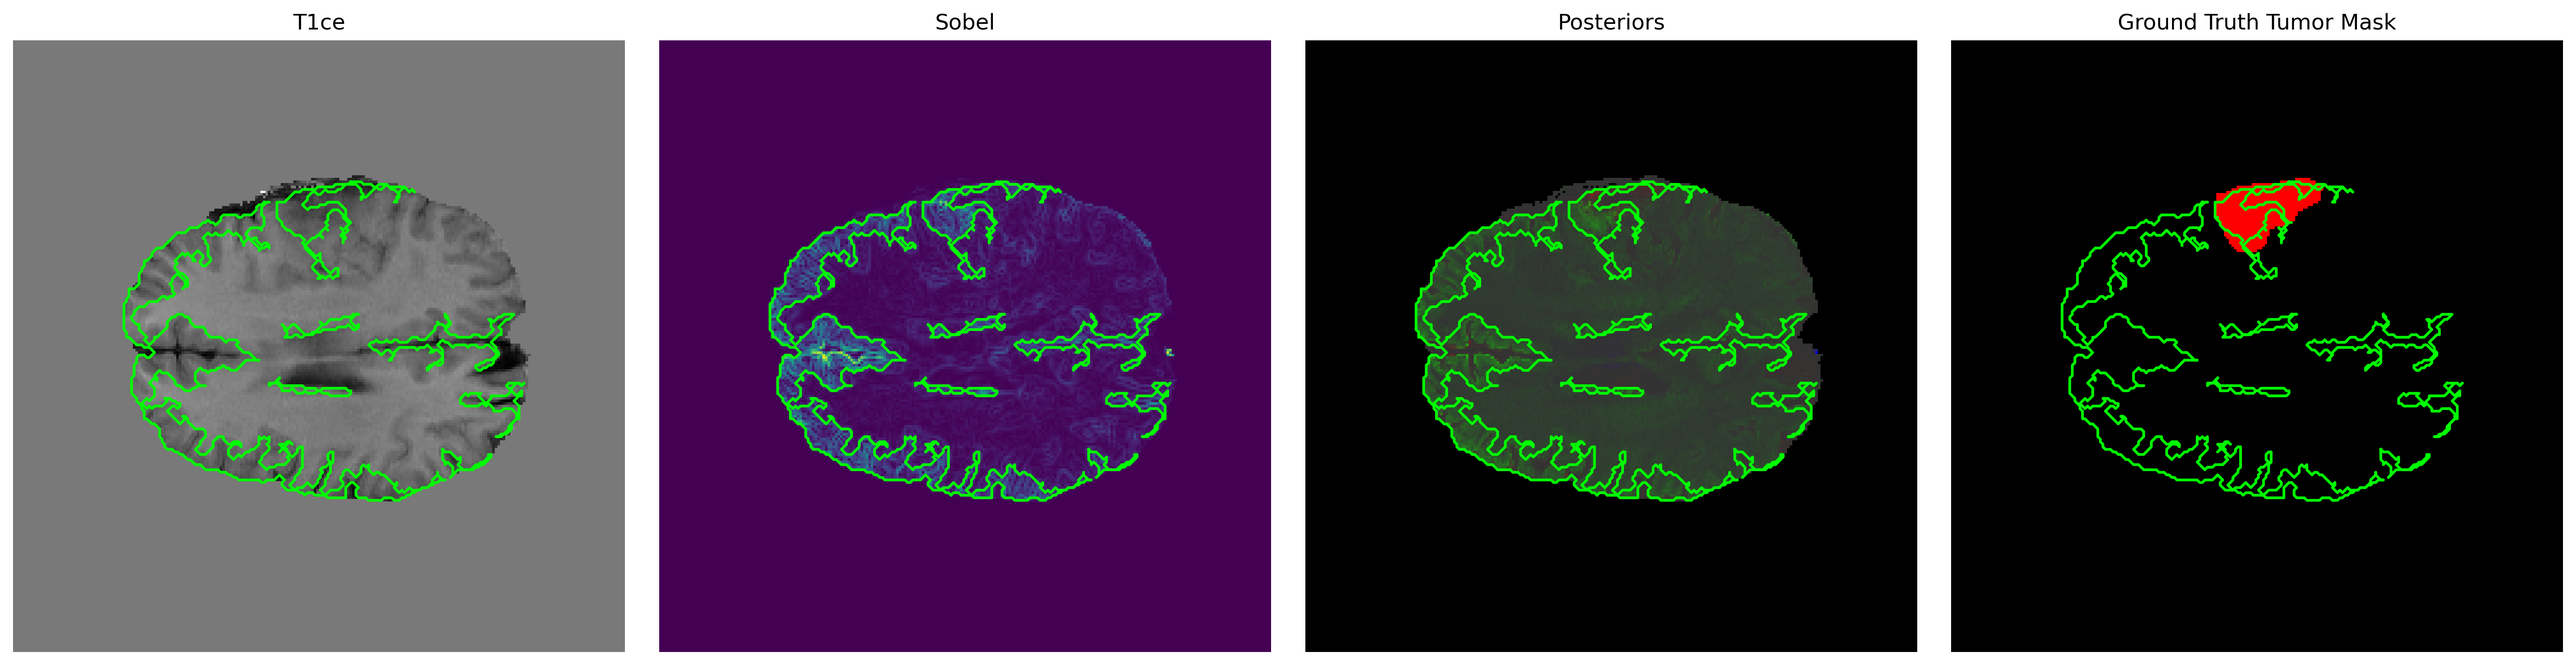
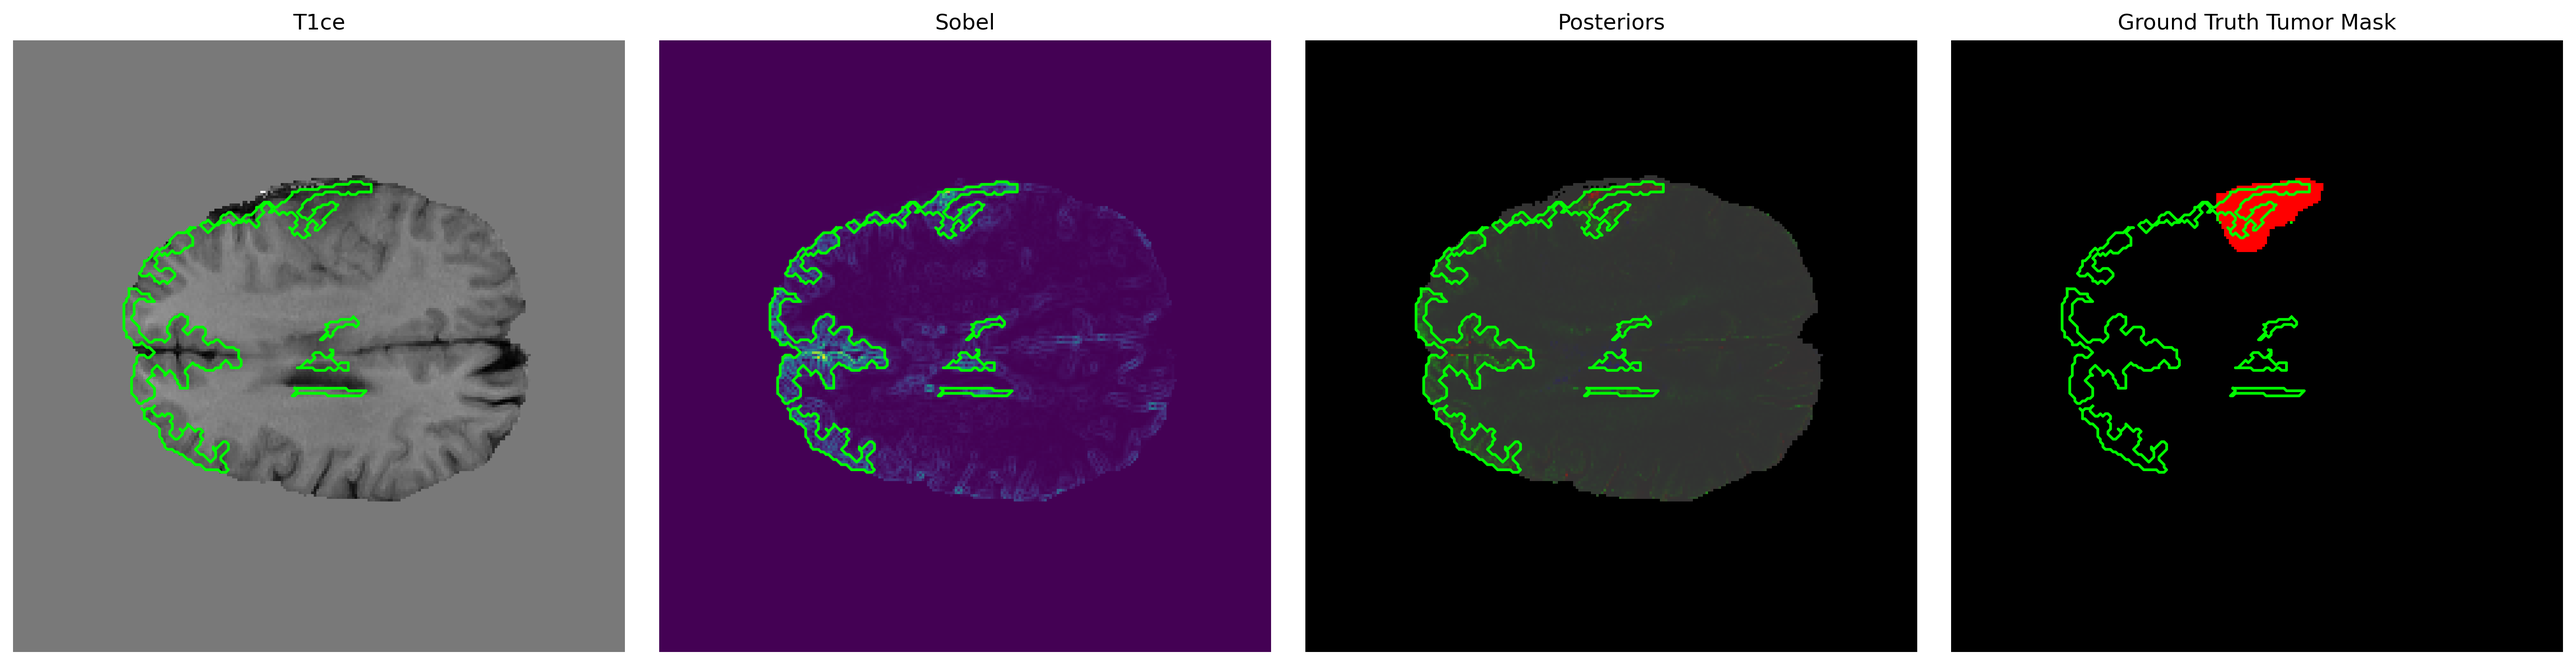
update main

diff --git a/main.py b/main.py
@@ -11,6 +11,9 @@ from statistical_models.healthy_single_gaussian.healthy_single_gaussian_posterio
 from statistical_models.tumor_single_skew_t.tumor_single_skew_t_posterior import tumor_single_skew_t_stat_inference
 from statistical_models.healthy_single_skew_t.healthy_single_skew_t_posterior import healthy_single_skew_t_stat_inference
 
+from statistical_models.healthy_gmm.healthy_gmm_posterior import (healthy_gmm_stat_inference,)
+from statistical_models.tumor_gmm.tumor_gmm_posterior import (tumor_gmm_stat_inference,)
+
 from image_processing.visualizations          import visualize_probability,visualize_entropy,visualize_sobel_edges, visualize_contours, visualize_expansion, visualize_segmentation
 from image_processing.compute_entropy         import compute_entropy
 from image_processing.edge_detection          import sobel_edge_detection
@@ -29,7 +32,7 @@ if __name__ == "__main__":
     # PIPELINE CONFIGURATION & PARAMETERS
     # ==============================================================================
 
-    volume_num = 302
+    volume_num = 305
     slice_num = 90
     target_row = 115
 
@@ -49,9 +52,9 @@ if __name__ == "__main__":
     if MODEL == "skew_t":
         healthy_probabilities = healthy_single_skew_t_stat_inference(slice_im, brain_mask)  # Shape: (H, W, K_healthy)
         tumor_probabilities   = tumor_single_skew_t_stat_inference  (slice_im, brain_mask)  # Shape: (H, W, K_tumor)
-    # if MODEL == "gmm":
-    #     healthy_probabilities = #
-    #     tumor_probabilities   = #
+    if MODEL == "gmm":
+        healthy_probabilities = healthy_gmm_stat_inference(slice_im, brain_mask)
+        tumor_probabilities = tumor_gmm_stat_inference(slice_im, brain_mask)
     stacked_probabilities = np.dstack([healthy_probabilities, tumor_probabilities])
     total_evidence        = np.sum(stacked_probabilities, axis=-1, keepdims=True)
     posteriors            = np.divide(stacked_probabilities,total_evidence,out=np.zeros_like(stacked_probabilities),where=total_evidence > 0)

diff --git a/evaluation/eval_loop.py b/evaluation/eval_loop.py
@@ -8,6 +8,9 @@ from statistical_models.healthy_single_gaussian.healthy_single_gaussian_posterio
 from statistical_models.tumor_single_skew_t.tumor_single_skew_t_posterior import tumor_single_skew_t_stat_inference
 from statistical_models.healthy_single_skew_t.healthy_single_skew_t_posterior import healthy_single_skew_t_stat_inference
 
+from statistical_models.healthy_gmm.healthy_gmm_posterior import (healthy_gmm_stat_inference,)
+from statistical_models.tumor_gmm.tumor_gmm_posterior import (tumor_gmm_stat_inference,)
+
 from image_processing.visualizations          import visualize_probability, visualize_entropy, visualize_sobel_edges, visualize_contours, visualize_expansion, visualize_segmentation
 from image_processing.compute_entropy         import compute_entropy
 from image_processing.edge_detection          import sobel_edge_detection
@@ -41,9 +44,9 @@ def eval_vol(vol_num):
         if MODEL == "skew_t":
             healthy_probabilities = healthy_single_skew_t_stat_inference(slice_im, brain_mask)  # Shape: (H, W, K_healthy)
             tumor_probabilities   = tumor_single_skew_t_stat_inference  (slice_im, brain_mask)  # Shape: (H, W, K_tumor)
-        # if MODEL == "gmm":
-        #     healthy_probabilities = #
-        #     tumor_probabilities   = #
+        if MODEL == "gmm":
+            healthy_probabilities = healthy_gmm_stat_inference(slice_im, brain_mask)
+            tumor_probabilities = tumor_gmm_stat_inference(slice_im, brain_mask)
         stacked_probabilities = np.dstack([healthy_probabilities, tumor_probabilities])
         total_evidence        = np.sum(stacked_probabilities, axis=-1, keepdims=True)
         posteriors            = np.divide(

diff --git a/config_parameters.py b/config_parameters.py
@@ -24,7 +24,7 @@ MIN_NUM_PIXELS_PER_BLOB_DEFAULT = 50
 SOBEL_BINARIZATION_OTSU_FACTOR  = 1
 
 # contour classification
-WEIGHTED_POSTERIOR_MEAN_THRESHOLD = 0.4
+WEIGHTED_POSTERIOR_MEAN_THRESHOLD = 0.1
 
 # seed expansion
 ENTROPY_THRESHOLD_DEFAULT      = 0.25
